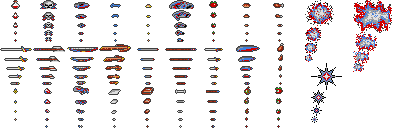
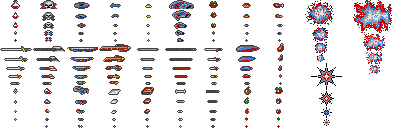
dungeon item blasts updated

Changed region(s): [[0.8788, 0.25, 0.9697, 0.5938], [0.7576, 0.2188, 0.8485, 0.5], [0.7879, 0.7188, 0.8485, 0.9688]]

diff --git a/items.js b/items.js
@@ -403,7 +403,7 @@ function initItemRefs() {
 	createItemRef(108, "Moon Ring", recolourUiGfx(gfxUI[UI_GFX_POCKET_RING], COLOUR[COLOUR_GREEN], COLOUR[COLOUR_BLUE]), recolourSpriteArray(itemsGfxD[DUNGEON_ITEM_RING], DUN_ITEM_PALETTE_DEFAULT, new Array(COLOUR[COLOUR_BLUE], COLOUR[COLOUR_BLUE], COLOUR[COLOUR_GREY_LIGHT], COLOUR[COLOUR_BLACK])));
 	createItemRef(109, "Book of Skulls", gfxUI[UI_GFX_ICON_BOOKOFSKULLS], itemsGfxD[DUNGEON_ITEM_BOOK_OF_SKULLS]);
 
-	itemsGfxD = [];
+	//itemsGfxD = [];
 
 }
 
@@ -437,25 +437,25 @@ function initItemsGfxD() {
         
         var i = [];
         i.push(grabImageAt(spriteSheetIMG, 305, 0, 29, 26, false));
-        i.push(grabImageAt(spriteSheetIMG, 305, 27, 16, 16, false));
-        i.push(grabImageAt(spriteSheetIMG, 305, 43, 12, 11, false));
-        i.push(grabImageAt(spriteSheetIMG, 305, 54, 8, 8, false));
+        i.push(grabImageAt(spriteSheetIMG, 312, 27, 16, 16, false));
+        i.push(grabImageAt(spriteSheetIMG, 315, 43, 12, 11, false));
+        i.push(grabImageAt(spriteSheetIMG, 317, 54, 8, 8, false));
         dItems.push(i);
         i = [];
 
         var i = [];
         i.push(grabImageAt(spriteSheetIMG, 353, 0, 39, 33, false));
-        i.push(grabImageAt(spriteSheetIMG, 355, 32, 22, 19, false));
-        i.push(grabImageAt(spriteSheetIMG, 353, 51, 16, 12, false));
-        i.push(grabImageAt(spriteSheetIMG, 353, 63, 11, 9, false));
+        i.push(grabImageAt(spriteSheetIMG, 363, 33, 22, 19, false));
+        i.push(grabImageAt(spriteSheetIMG, 366, 52, 16, 12, false));
+        i.push(grabImageAt(spriteSheetIMG, 369, 65, 11, 9, false));
         dItems.push(i);
         i = [];
 
         var i = [];
         i.push(grabImageAt(spriteSheetIMG, 311, 63, 31, 27, false));
-        i.push(grabImageAt(spriteSheetIMG, 311, 90, 15, 15, false));
-        i.push(grabImageAt(spriteSheetIMG, 311, 105, 11, 11, false));
-        i.push(grabImageAt(spriteSheetIMG, 311, 116, 7, 7, false));
+        i.push(grabImageAt(spriteSheetIMG, 319, 91, 15, 15, false));
+        i.push(grabImageAt(spriteSheetIMG, 321, 107, 11, 11, false));
+        i.push(grabImageAt(spriteSheetIMG, 323, 119, 7, 7, false));
         dItems.push(i);
         i = [];
 
